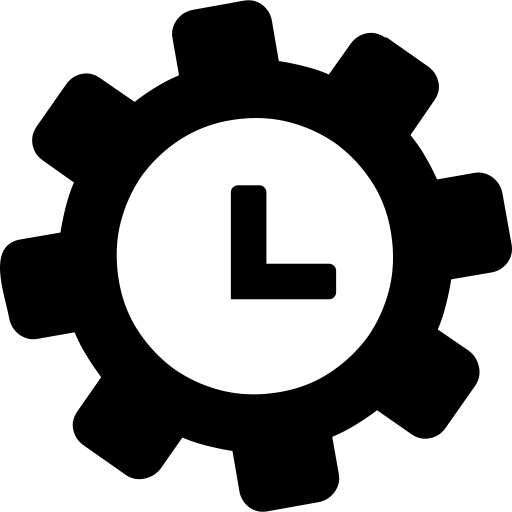
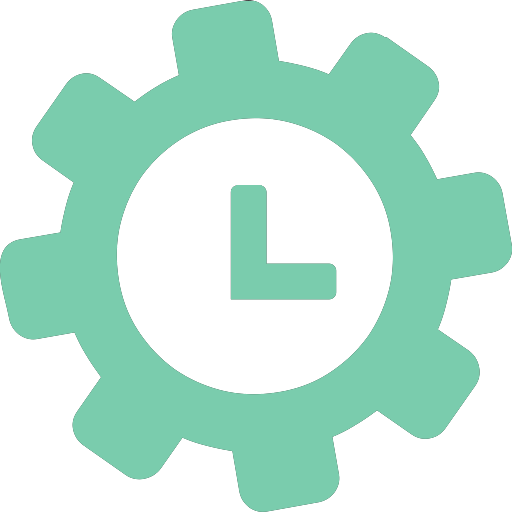
Updated design

diff --git a/src/Styles/Main.css b/src/Styles/Main.css
@@ -45,11 +45,11 @@ html body {
   height: 40%;
   background: #FFFFFF;
   text-align: center;
-  box-shadow: 0px 6px 18px rgba(0, 0, 0, 0.377);
+  box-shadow: 0px 6px 18px rgba(0, 0, 0, 0);
 
 }
 
-@media(max-width:1575px) {
+@media(max-width:1574px) {
   .hello {
     position: absolute;
     top: 9%;
@@ -65,6 +65,7 @@ html body {
     width: 110px;
 
   }
+
 }
 
 @media(min-width: 1575px) {
@@ -119,8 +120,8 @@ html body {
 
 .toggle-btn {
   width: 100%;
-  border: 1px solid #00C67E !important;
-  background-color: rgb(241, 239, 239) !important;
+  border: 1px solid #9982da !important;
+  background-color: white !important;
   font-weight: 600;
   font-size: 18px;
   border-radius: 5px;
@@ -189,7 +190,7 @@ html body {
     position: absolute;
     margin-top: 10px;
     padding: 0px;
-    left: 40%;
+    left: 40% !important;
   }
 
   .btn-modal-summary {
@@ -349,7 +350,7 @@ html body {
   }
 }
 
-@media(max-width : 1900px) {
+@media(max-width : 1899px) {
   .status-card {
     position: relative;
     width: 1000px;
@@ -392,13 +393,19 @@ html body {
   }
 }
 
-@media(max-width:1696px) {
+@media(max-width:1778px) {
   .status-card {
     position: relative;
     width: 900px;
     height: 220px;
     left: 23%;
     bottom: 215px !important;
+  }
+  .tabs {
+    position: absolute;
+    margin-top: 10px;
+    padding: 0px;
+    left: 52%;
   }
 }
 
@@ -498,6 +505,23 @@ html body {
     top: 12vh;
     font-weight: bold !important;
     border: 0 !important;
+  }
+  .agent-list-card {
+    position: absolute;
+    top: 6% !important;
+    left: 96%;
+    width: 26px;
+  
+  
+  }
+  
+  .bookmark-icon-list {
+    position: absolute;
+    top: 5% !important;
+    left: 92% !important;
+    width: 23px;
+  
+  
   }
 }
 
@@ -799,15 +823,19 @@ a:hover {
 
 .agent-list-card {
   position: absolute;
-  top: 4%;
+  top: 8%;
   left: 96%;
+  width: 26px;
+
 
 }
 
 .bookmark-icon-list {
   position: absolute;
-  top: 4%;
+  top: 7%;
   left: 93%;
+  width: 23px;
+
 
 }
 
@@ -826,4 +854,11 @@ a:hover {
 
 .messaging-btn:hover {
   color: white !important;
+}
+.main-logo{
+  position: relative;
+  bottom: 120%;
+  width: 90px;
+  box-shadow: 0px 6px 18px rgba(0, 0, 0, 0.377);
+  border-radius: 10px;
 }

diff --git a/src/Components/ContactsTable.jsx b/src/Components/ContactsTable.jsx
@@ -1,7 +1,7 @@
 import React, { useContext } from 'react';
 import { Container, Table } from 'react-bootstrap';
 import { MainContext } from '../Context/Context';
-import TableItems from './TableItems';
+import ContactTableItem from './ContactTableItem';
 
 function ContactsTable() {
     const { contacts } = useContext(MainContext);
@@ -11,19 +11,19 @@ function ContactsTable() {
             <Table striped bordered hover className="contact-table">
                 <thead>
                     <tr>
-                        <th className="text-center">#</th>
-                        <th className="text-center">First Name</th>
-                        <th className="text-center">Last Name</th>
-                        <th className="text-center">Telephone</th>
-                        <th className="text-center">Email</th>
-                        <th className="text-center">Company</th>
-                        <th className="text-center">Title</th>
-                        <th className="text-center">More</th>
+                        <th className="text-center purple">#</th>
+                        <th className="text-center purple">First Name</th>
+                        <th className="text-center purple">Last Name</th>
+                        <th className="text-center purple">Telephone</th>
+                        <th className="text-center purple">Email</th>
+                        <th className="text-center purple">Company</th>
+                        <th className="text-center purple">Title</th>
+                        <th className="text-center purple">More</th>
                     </tr>
                 </thead>
                 <tbody>
                     {contacts && contacts.map(contact =>
-                        <TableItems
+                        <ContactTableItem
                             key={Math.random()}
                             id={contact.id}
                             firstName={contact.firstName}

diff --git a/src/Components/ContactForm.jsx b/src/Components/ContactForm.jsx
@@ -1,10 +1,9 @@
 import React, { useState } from 'react';
 import { Button, Container, Form, Col, Alert, Card } from 'react-bootstrap';
-import { MainContext } from '../Context/Context';
 import '../Styles/AccountProfile.css';
-import '../Styles/ContactAdd.css';
+import '../Styles/Contacts.css';
 
-function ContactAdd() {
+function ContactForm() {
     const [error, setError] = useState();
     const [profileValues, setProfileValues] = useState({});
     const [workHistory, setWorkHistory] = useState(false);
@@ -30,7 +29,7 @@ function ContactAdd() {
         <div>
             <Container className="container-profile">
                 <Card border="light">
-                    <Card.Header as="h2" className="text-center card-title-header"><span className="boldening">Add New Contact</span></Card.Header>
+                    <Card.Header as="h2" className="text-center purple"><span className="boldening">Add New Contact</span></Card.Header>
                     <Card.Body className="add-contact-form">
                         <Card.Text>
                             {error && <Alert variant="danger">{error}</Alert>}
@@ -102,4 +101,4 @@ function ContactAdd() {
         </div>
     )
 }
-export default ContactAdd;
+export default ContactForm;

diff --git a/src/Components/JobTableItem.jsx b/src/Components/JobTableItem.jsx
@@ -4,9 +4,9 @@ import { Card, Button, Container, Row, Col, Form } from 'react-bootstrap';
 import Modal from 'react-modal';
 import '../Styles/Jobs.css';
 import Page from '../images/bio.png'
-import Info from '../images/info.png'
-import Trash from '../images/trash.png'
-import Edit from '../images/edit.png'
+import Info from '../images/info-green.png'
+import Trash from '../images/trash1.png'
+import Edit from '../images/edit1.png'
 
 
 function JobsTableItems(props) {
@@ -42,10 +42,9 @@ function JobsTableItems(props) {
             <td className="text-center">{props.startDate}</td>
             <td className="text-center">{props.endDate}</td>
             <td className="text-center">{props.status}</td>
-            {/* <td className="text-center">{props.description}</td> */}
 
             <td className="actions-list">
-                <Container className="container-list-more">
+                <Container className="container-list-more-jobs">
                     <Row>
                         <Col>
                             <input type="image" variant="primary" id="about" className="info-list-contact" src={Info} alt="" title="About" onClick={() => setModalIsOpen1(true)}></input>

diff --git a/src/Components/ContactTableItem.jsx b/src/Components/ContactTableItem.jsx
@@ -4,13 +4,13 @@ import { Card, Container, Row, Col } from 'react-bootstrap';
 import Modal from 'react-modal';
 import '../Styles/ContactCard.css';
 import Page from '../images/bio.png'
-import Info from '../images/info.png'
-import Trash from '../images/trash.png'
+import Info from '../images/info-green.png'
+import Trash from '../images/trash1.png'
 import Work from '../images/working-time.png';
-import Edit from '../images/edit.png';
+import Edit from '../images/edit1.png';
 
 
-function TableItems(props) {
+function ContactTableItem(props) {
     const [modalIsOpen1, setModalIsOpen1] = useState(false);
     const [modalIsOpen2, setModalIsOpen2] = useState(false);
 
@@ -81,4 +81,4 @@ function TableItems(props) {
     )
 }
 
-export default TableItems;
+export default ContactTableItem;

diff --git a/src/Components/Header.jsx b/src/Components/Header.jsx
@@ -1,6 +1,7 @@
 import React from 'react';
 import { Form, FormControl, Button } from 'react-bootstrap';
 import Profile from '../images/profile.png';
+import Logo from '../images/logo-white.png'
 
 
 function Header() {
@@ -10,7 +11,7 @@ function Header() {
     return (
         <>
             <div className="grid-item grid-item-header">
-                <div className="logo"><a href="/">Company Logo</a></div>
+                <div className="logo"><a href="/"><img src={Logo} alt="" srcset="" className="main-logo"/></a></div>
             </div>
             <div className="grid-item grid-item-header2">
                 <Form className="form-hp" onSubmit={e => basicSearching(e)}>

diff --git a/src/Components/Main.jsx b/src/Components/Main.jsx
@@ -15,7 +15,7 @@ import FileManager from './FileManager';
 import Reminders from './Reminders';
 import MessageComponent from './MessageComponent';
 import Contacts from './Contacts';
-import ContactAdd from './ContactAdd';
+import ContactForm from './ContactForm';
 import Jobs from './Jobs';
 
 function Main() {
@@ -74,7 +74,7 @@ function Main() {
                 </Switch>
                 <Switch>
                     <Route path='/add_contact'>
-                        <ContactAdd />
+                        <ContactForm />
                     </Route>
                 </Switch>
                 <Switch>

diff --git a/src/Components/AccountProfile.jsx b/src/Components/AccountProfile.jsx
@@ -33,7 +33,7 @@ function AccountProfile() {
         <div>
             <Container className="container-profile">
                 <Card border="light">
-                    <Card.Header as="h2" className="text-center card-title-header"><span className="boldening">Agent's Profile</span></Card.Header>
+                    <Card.Header as="h2" className="text-center card-title-header-profile"><span className="boldening">Agent's Profile</span></Card.Header>
                     <Card.Body>
                         <Col>
                             <input type="file" id="actual-btn" hidden />

diff --git a/src/Components/ContactCard.jsx b/src/Components/ContactCard.jsx
@@ -7,11 +7,11 @@ import Mail from '../images/mail.png';
 import Phone from '../images/phone.png';
 import Page from '../images/bio.png';
 import Company from '../images/company.png';
-import Trash from '../images/trash.png';
+import Trash from '../images/trash1.png';
 import Job from '../images/workplace.png';
 import People from '../images/people.png';
 import Work from '../images/working-time.png';
-import Edit from '../images/edit.png'
+import Edit from '../images/edit1.png'
 
 function ContactCard(props) {
     const [modalIsOpen1, setModalIsOpen1] = useState(false);

diff --git a/src/Styles/Contacts.css b/src/Styles/Contacts.css
@@ -46,17 +46,17 @@
 }
 
 .work-list-icon {
-    width: 27px;
+    width: 20px;
 }
 .info-list-contact{
-    width: 27px;
+    width: 20px;
 }
 .trash-list-contact{
-    width: 27px;
+    width: 18px;
 
 }
 .edit-contact-list{
-    width: 27px;
+    width: 20px;
 
 }
 .container-list-more{
@@ -64,3 +64,12 @@
     right: 5%;
     bottom: -2px;
 }
+.purple{
+    background-color: #9982da;
+    color: white;
+}
+.add-contact-form {
+    position: relative;
+    margin-top: 20px;
+}
+

diff --git a/src/Components/JobsForm.jsx b/src/Components/JobsForm.jsx
@@ -148,7 +148,7 @@ class JobsForm extends React.Component {
                             onChange={event => this.onJobDescriptionChange(event)}
                             required />
                         <Button
-                            className='btn btn-primary btn-block m-3'
+                            className='btn btn-block m-3 add-job-btn'
                             type='submit'
                         >Add Job</Button>
                     </Form.Group>

diff --git a/src/Components/BookItemGridView.jsx b/src/Components/BookItemGridView.jsx
@@ -5,8 +5,8 @@ import mockImg from '../images/BookCover_MockUp.png';
 import GenreItem from './GenreItem';
 import '../Styles/BookItemGrid.css';
 import StatusProgress from './StatusProgress';
-import BookMark from "../images/bookmark1.png";
-import Agent from '../images/agent.png';
+import BookMark from "../images/star.png";
+import Agent from '../images/check.png';
 import { MainContext } from '../Context/Context';
 import Jobs from './Jobs';
 
